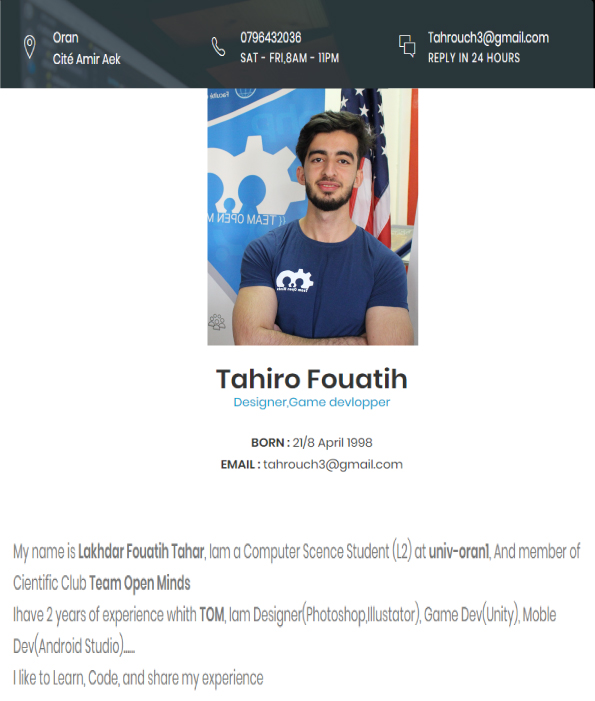
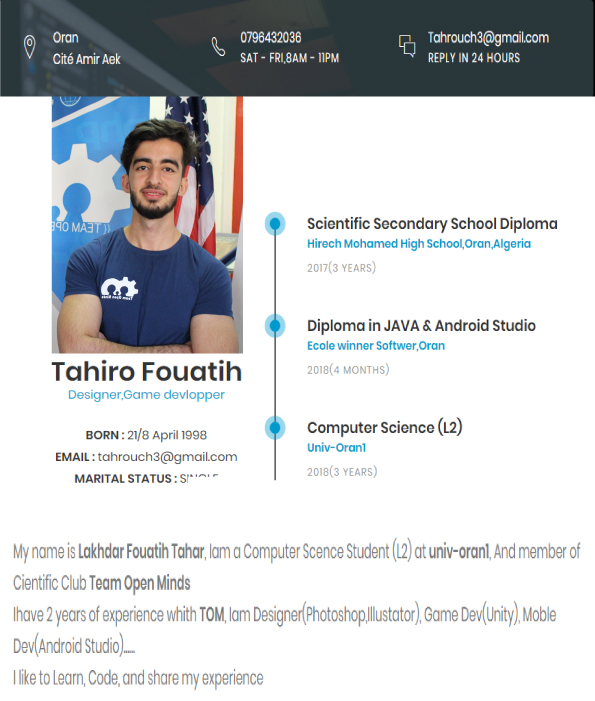
experience

Changed region(s): [[0.0, 0.1198, 1.0, 0.689]]

diff --git a/index.html b/index.html
@@ -59,7 +59,7 @@
 				</div><!-- row -->
 			</div><!-- heading-wrapper -->
 			
-			<a class="downlad-btn fa fa-download" href="static/CV/thr-cv.jpg" download='cv' >Download CV</a>
+			<a class="downlad-btn fa fa-download" href="static/CV/" download='cv' >Download CV</a>
 		</div><!-- container -->
 	</header>
 	<!-- intro-section -->
@@ -197,7 +197,7 @@
                 </div><!-- col-sm-4 -->
                 <!-- col-sm-8 -->
 				<div class="col-sm-12">
-					<p class="margin-b-50">My name is <b>Lakhdar Fouatih Tahar</b>, Iam a Computer Scence Student (L2) at <a href="https://www.univ-oran1.dz/"><b>univ-oran1</b></a>, And member of Cientific Club <a href="team-open-minds.club"><b>Team Open Minds</b></a><br>
+					<p class="margin-b-50">My name is <b>Lakhdar Fouatih Tahar</b>, Iam a Computer Science Student (L2) at <a href="https://www.univ-oran1.dz/"><b>univ-oran1</b></a>, And member of Sientific Club <a href="team-open-minds.club"><b>Team Open Minds</b></a><br>
 					Ihave 2 years of experience whith <a href="team-open-minds.club"><b>TOM</b></a>, Iam Designer(Photoshop,Illustator), Game Dev(Unity), Moble Dev(Android Studio)......<br>I like to Learn, Code, and share my experience</p>
 					
 					<div class="row">
@@ -243,52 +243,7 @@
 		</div><!-- container -->
 	</section><!-- about-section -->
 	
-	<section class="experience-section section">
-		<div class="container">
-			<div class="row">
-				<div class="col-sm-4">
-					<div class="heading">
-						<h3><b>Work Experience</b></h3>
-						<h6 class="font-lite-black"><b>PREVIOUS JOBS</b></h6>
-					</div>
-				</div><!-- col-sm-4 -->
-				<div class="col-sm-8">
-				
-					<div class="experience margin-b-50">
-						<h4><b>JUNIOR PROJECT MANAGER</b></h4>
-						<h5 class="font-yellow"><b>DESIGN STUDIO</b></h5>
-						<h6 class="margin-t-10">MARCH 2015 - PRESENT</h6>
-						<p class="font-semi-white margin-tb-30">Duis non volutpat arcu, eu mollis tellus. Sed finibus aliquam neque sit amet sodales. 
-							Lorem ipsum dolor sit amet, consectetur adipiscing elit. Nulla maximus pellentes que velit, 
-							quis consequat nulla effi citur at. Maecenas sed massa tristique.Duis non volutpat arcu, 
-							eu mollis tellus. Sed finibus aliquam neque sit amet sodales. </p>
-						<ul class="list margin-b-30">
-							<li>Duis non volutpat arcu, eu mollis tellus.</li>
-							<li>Quis consequat nulla effi citur at.</li>
-							<li>Sed finibus aliquam neque sit.</li>
-						</ul>
-					</div><!-- experience -->
-					
-					<div class="experience margin-b-50">
-						<h4><b>WEB MASTER/WEB DEVELOPER</b></h4>
-						<h5 class="font-yellow"><b>DESIGN & WEB STUDIO</b></h5>
-						<h6 class="margin-t-10">APRIL 2014 - FEBRUARY 2015</h6>
-						<p class="font-semi-white margin-tb-30">Duis non volutpat arcu, eu mollis tellus. Sed finibus aliquam neque sit amet sodales. 
-							Lorem ipsum dolor sit amet, consectetur adipiscing elit. Nulla maximus pellentes que velit, 
-							quis consequat nulla effi citur at. Maecenas sed massa tristique.Duis non volutpat arcu, 
-							eu mollis tellus. Sed finibus aliquam neque sit amet sodales. </p>
-						<ul class="list margin-b-30">
-							<li>Duis non volutpat arcu, eu mollis tellus.</li>
-							<li>Quis consequat nulla effi citur at.</li>
-							<li>Sed finibus aliquam neque sit.</li>
-						</ul>
-					</div><!-- experience -->
-					
-				</div><!-- col-sm-8 -->
-			</div><!-- row -->
-		</div><!-- container -->
-		
-	</section><!-- experience-section -->
+	
 	
 	<section class="education-section section">
 		<div class="container">
@@ -302,33 +257,23 @@
 				<div class="col-sm-8">
 					<div class="education-wrapper">
 						<div class="education margin-b-50">
-							<h4><b>MASTER DEGREE IN SCIENCE</b></h4>
-							<h5 class="font-yellow"><b>UCLA - SCIENCE AND ENGINEERING</b></h5>
-							<h6 class="font-lite-black margin-t-10">GRADUATED IN MAY 2010(2 YEARS)</h6>
-							<p class="margin-tb-30">Duis non volutpat arcu, eu mollis tellus. Sed finibus aliquam neque sit amet sodales. 
-							Lorem ipsum dolor sit amet, consectetur adipiscing elit. Nulla maximus pellentes que velit, 
-							quis consequat nulla effi citur at. Maecenas sed massa tristique.Duis non volutpat arcu, 
-							eu mollis tellus. Sed finibus aliquam neque sit amet sodales. </p>
+							<h4><b>Scientific Secondary School Diploma</b></h4>
+							<h5 class="font-yellow"><b>Hirech Mohamed High School,Oran,Algeria</b></h5>
+							<h6 class="font-lite-black margin-t-10">2017(3 YEARS)</h6>
+							
 						</div><!-- education -->
 						
 						<div class="education margin-b-50">
-							<h4><b>COURSE ON COMPUTER SCIENCE</b></h4>
-							<h5 class="font-yellow"><b>NEW YORK PUBLIC UNIVERSITY</b></h5>
-							<h6 class="font-lite-black margin-t-10">GRADUATED IN MAY 2009(6 MONTHS)</h6>
-							<p class="margin-tb-30">Duis non volutpat arcu, eu mollis tellus. Sed finibus aliquam neque sit amet sodales. 
-							Lorem ipsum dolor sit amet, consectetur adipiscing elit. Nulla maximus pellentes que velit, 
-							quis consequat nulla effi citur at. Maecenas sed massa tristique.Duis non volutpat arcu, 
-							eu mollis tellus. Sed finibus aliquam neque sit amet sodales. </p>
+							<h4><b>Diploma in JAVA & Android Studio</b></h4>
+							<h5 class="font-yellow"><b>Ecole winner Softwer,Oran</b></h5>
+							<h6 class="font-lite-black margin-t-10">2018(4 MONTHS)</h6>
+							
 						</div><!-- education -->
 						
 						<div class="education margin-b-50">
-							<h4><b>GRADUATED VALEDICTERIAN</b></h4>
-							<h5 class="font-yellow"><b>PUBLIC COLLEGE</b></h5>
-							<h6 class="font-lite-black margin-t-10">GRADUATED IN MAY 2008(4 YEARS)</h6>
-							<p class="margin-tb-30">Duis non volutpat arcu, eu mollis tellus. Sed finibus aliquam neque sit amet sodales. 
-							Lorem ipsum dolor sit amet, consectetur adipiscing elit. Nulla maximus pellentes que velit, 
-							quis consequat nulla effi citur at. Maecenas sed massa tristique.Duis non volutpat arcu, 
-							eu mollis tellus. Sed finibus aliquam neque sit amet sodales. </p>
+							<h4><b>Computer Science (L2)</b></h4>
+							<h5 class="font-yellow"><b><a href="https://www.univ-oran1.dz/">Univ-Oran1</a></b></h5>
+							<h6 class="font-lite-black margin-t-10">2018(3 YEARS)</h6>
 						</div><!-- education -->
 					</div><!-- education-wrapper -->
 				</div><!-- col-sm-8 -->
@@ -343,28 +288,28 @@
 			
 				<div class="col-sm-6 col-md-6 col-lg-3">
 					<div class="counter margin-b-30">
-						<h1 class="title"><b><span class="counter-value" data-duration="400" data-count="3">0</span></b></h1>
-						<h5 class="desc"><b>Coder Degrees</b></h5>
+						<h1 class="title"><b><span class="counter-value" data-duration="400" data-count="9">0</span></b></h1>
+						<h5 class="desc"><b>Dsign <br>Projects</b></h5>
 					</div><!-- counter -->
 				</div><!-- col-md-3-->
 				
 				<div class="col-sm-6 col-md-6 col-lg-3">
 					<div class="counter margin-b-30">
-						<h1 class="title"><b><span class="counter-value" data-duration="1400" data-count="125">0</span></b></h1>
-						<h5 class="desc"><b>Project Completed</b></h5>
+						<h1 class="title"><b><span class="counter-value" data-duration="1400" data-count="15">0</span></b></h1>
+						<h5 class="desc"><b>All Projects</b></h5>
 					</div><!-- counter -->
 				</div><!-- col-md-3-->
 				
 				<div class="col-sm-6 col-md-6 col-lg-3">
 					<div class="counter margin-b-30">
-						<h1 class="title"><b><span class="counter-value" data-duration="700" data-count="311">0</span></b></h1>
-						<h5 class="desc"><b>Satisfied Clients</b></h5>
+						<h1 class="title"><b><span class="counter-value" data-duration="700" data-count="3">0</span></b></h1>
+						<h5 class="desc"><b>Game <br>Project</b></h5>
 					</div><!-- counter -->
 				</div><!-- col-md-3-->
 				
 				<div class="col-sm-6 col-md-6 col-lg-3">
 					<div class="counter margin-b-30">
-						<h1 class="title"><b><span class="counter-value" data-duration="2000" data-count="732">0</span></b></h1>
+						<h1 class="title"><b><span class="counter-value" data-duration="2000" data-count="13">0</span></b></h1>
 						<h5 class="desc"><b>Finished Projects</b></h5>
 					</div><!-- margin-b-30 -->
 				</div><!-- col-md-3-->
@@ -376,7 +321,7 @@
 	<footer>
 		<p class="copyright">
 			<!-- Link back to Colorlib can't be removed. Template is licensed under CC BY 3.0. -->
-Copyright &copy;<script>document.write(new Date().getFullYear());</script> All rights reserved | This template is made with <i class="ion-heart" aria-hidden="true"></i> by <a href="https://colorlib.com" target="_blank">Colorlib</a>
+Copyright &copy;<script>document.write(new Date().getFullYear());</script> All rights reserved | This portfolio is made with <i class="ion-heart" aria-hidden="true"></i> by <a href="https://colorlib.com" target="_blank">Tahiiro Fouatih</a>
 <!-- Link back to Colorlib can't be removed. Template is licensed under CC BY 3.0. -->
 		</p>
 
